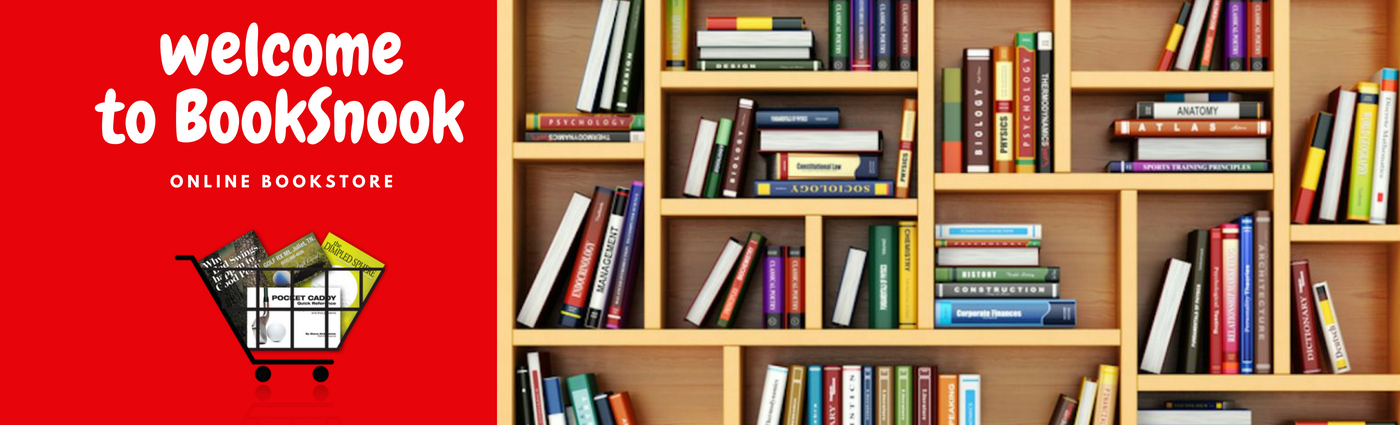
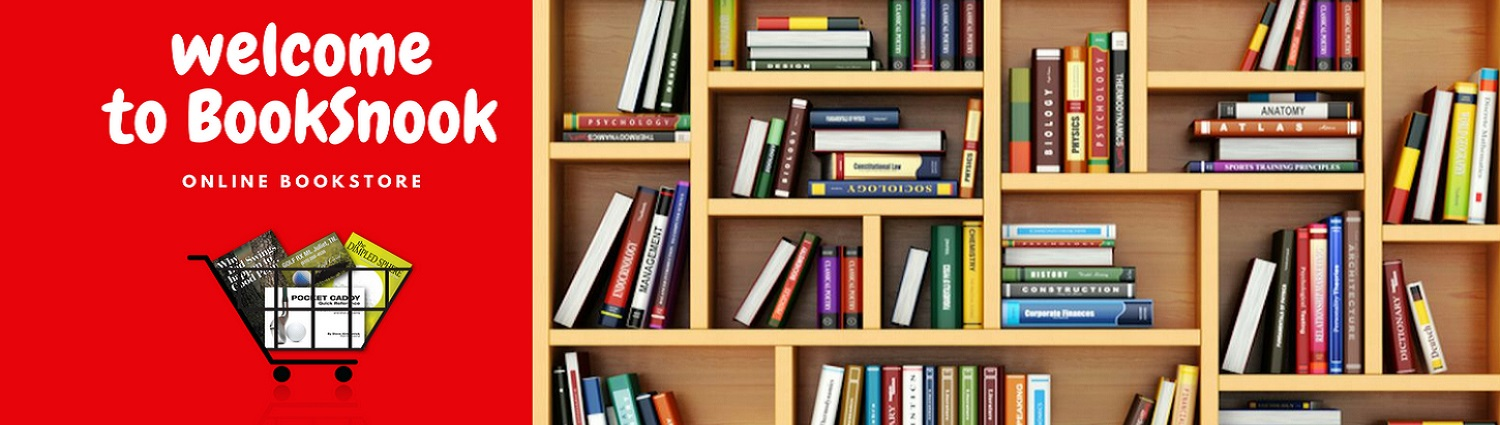
changes done in slide carousel

diff --git a/src/home/top-nav/top-nav.component.html b/src/home/top-nav/top-nav.component.html
@@ -13,7 +13,7 @@
           <span class="icon-bar"></span>
           <span class="icon-bar"></span>
         </button>
-        <a routerLink="/home" style="font-size: 25px; color: white"><span class="glyphicon glyphicon-book fixed-bottom"></span> Booksnook</a>
+        <a routerLink="/home" style="font-size: 25px; color: #ffe11b"><span class="glyphicon glyphicon-book fixed-bottom"></span> Booksnook</a>
       </div>
   
       <!-- Collect the nav links, forms, and other content for toggling -->
@@ -25,13 +25,14 @@
         <ul class="nav navbar-nav navbar-right">
           <li><a href=""><span class="glyphicon glyphicon-shopping-cart"></span> My Cart</a></li>
         </ul>
+        <div>
         <form class="navbar-form navbar-right">
           <div class="form-group">
             <input type="text" class="form-control" placeholder="Search">
-          </div>
           <button type="submit" class="btn btn-warning">Search</button>
+          </div>
         </form>
-        
+        </div>
       </div><!-- /.navbar-collapse -->
     </div><!-- /.container-fluid -->
   </nav>

diff --git a/src/home/home-slider/home-slider.component.html b/src/home/home-slider/home-slider.component.html
@@ -2,7 +2,7 @@
   home-slider works!
 </p> -->
 
-<div class="container">
+<div class="container-fluid">
 <div id="myCarousel" class="carousel slide" data-ride="carousel" >
     <!-- Indicators -->
     <ol class="carousel-indicators">
@@ -20,7 +20,7 @@
       </div>
   
       <div class="item active">
-        <img src="../../assets/images/bestseller.jpg" class="img-fluid" alt="Responsive image">
+        <img src="../../assets/images/Books_banner.png" class="img-fluid" alt="Responsive image">
         <div class="carousel-caption">
         </div>
       </div>
